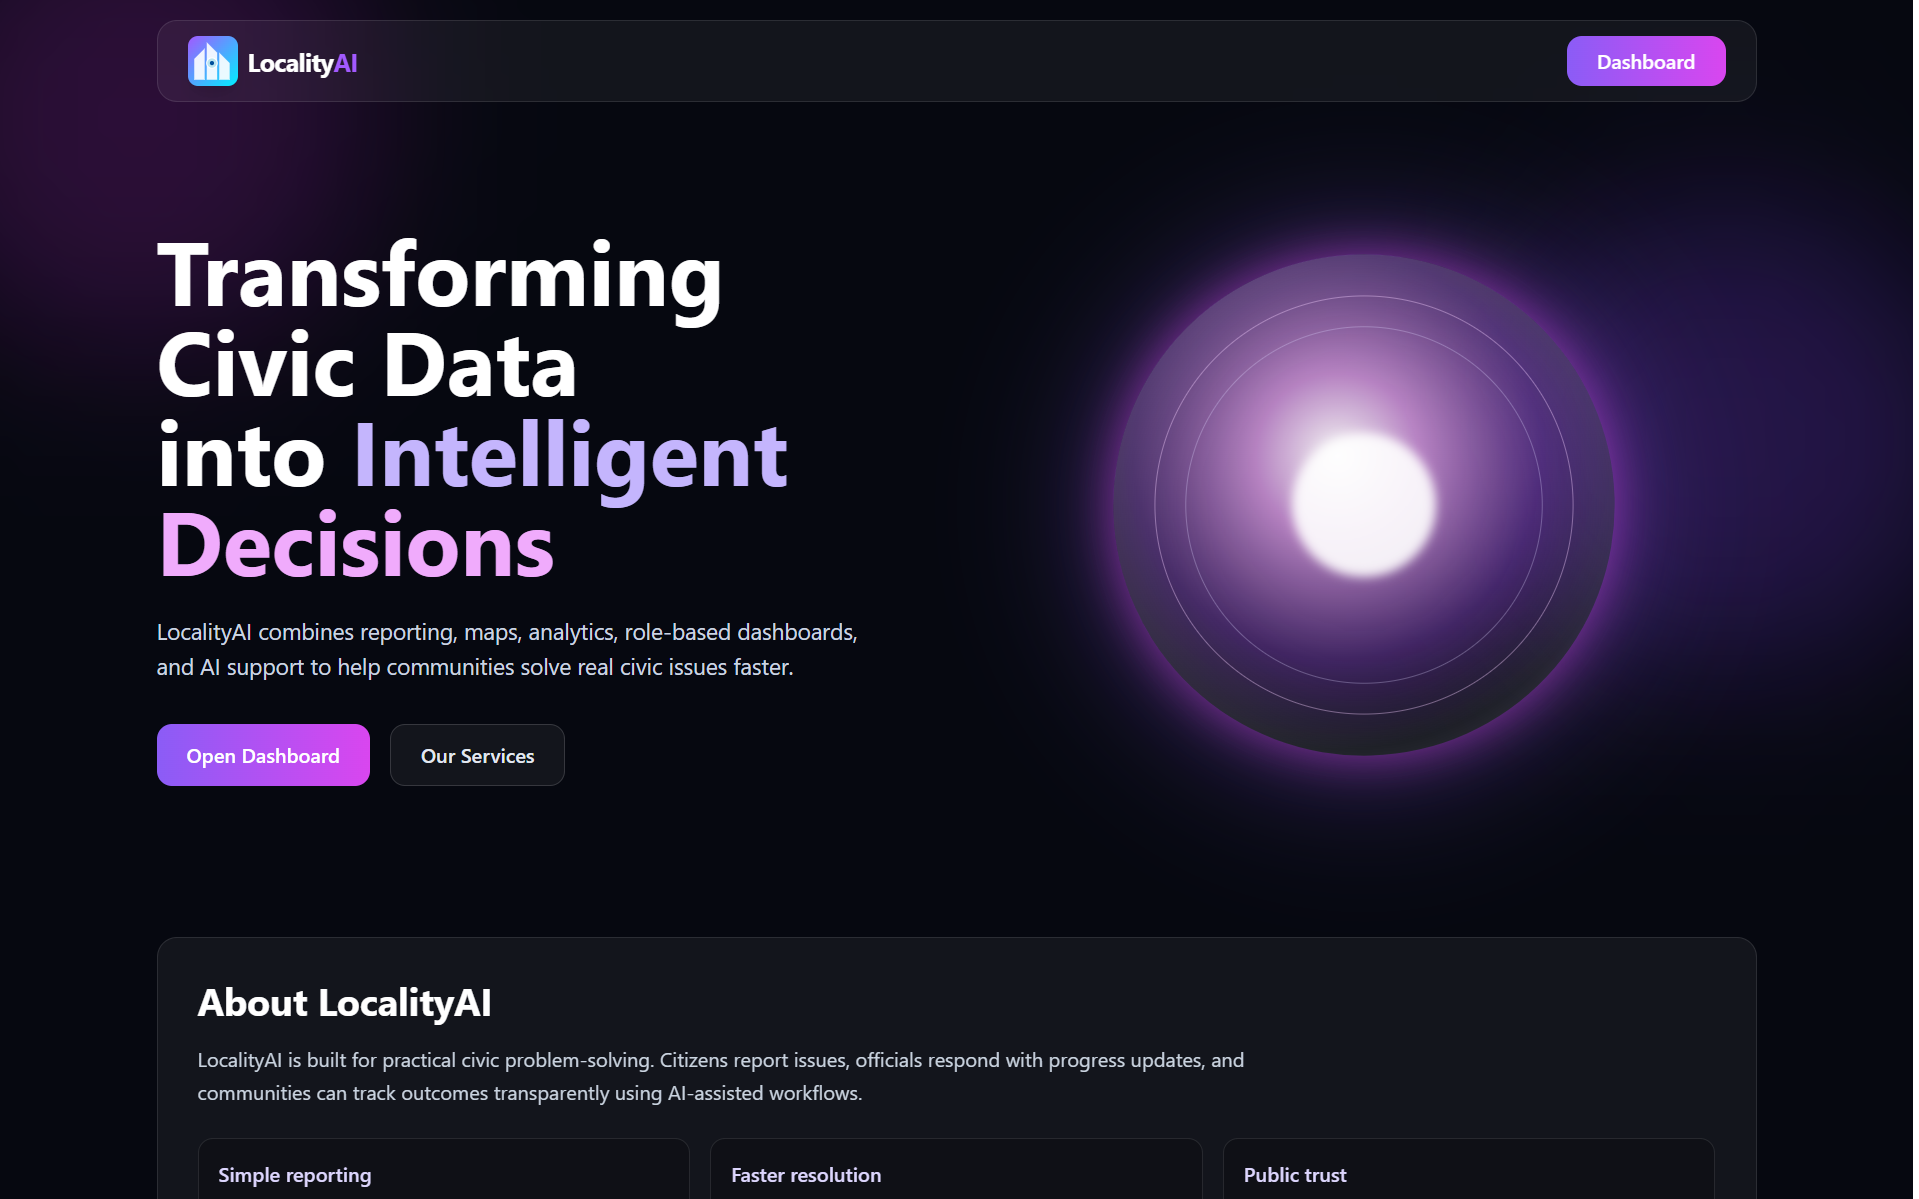
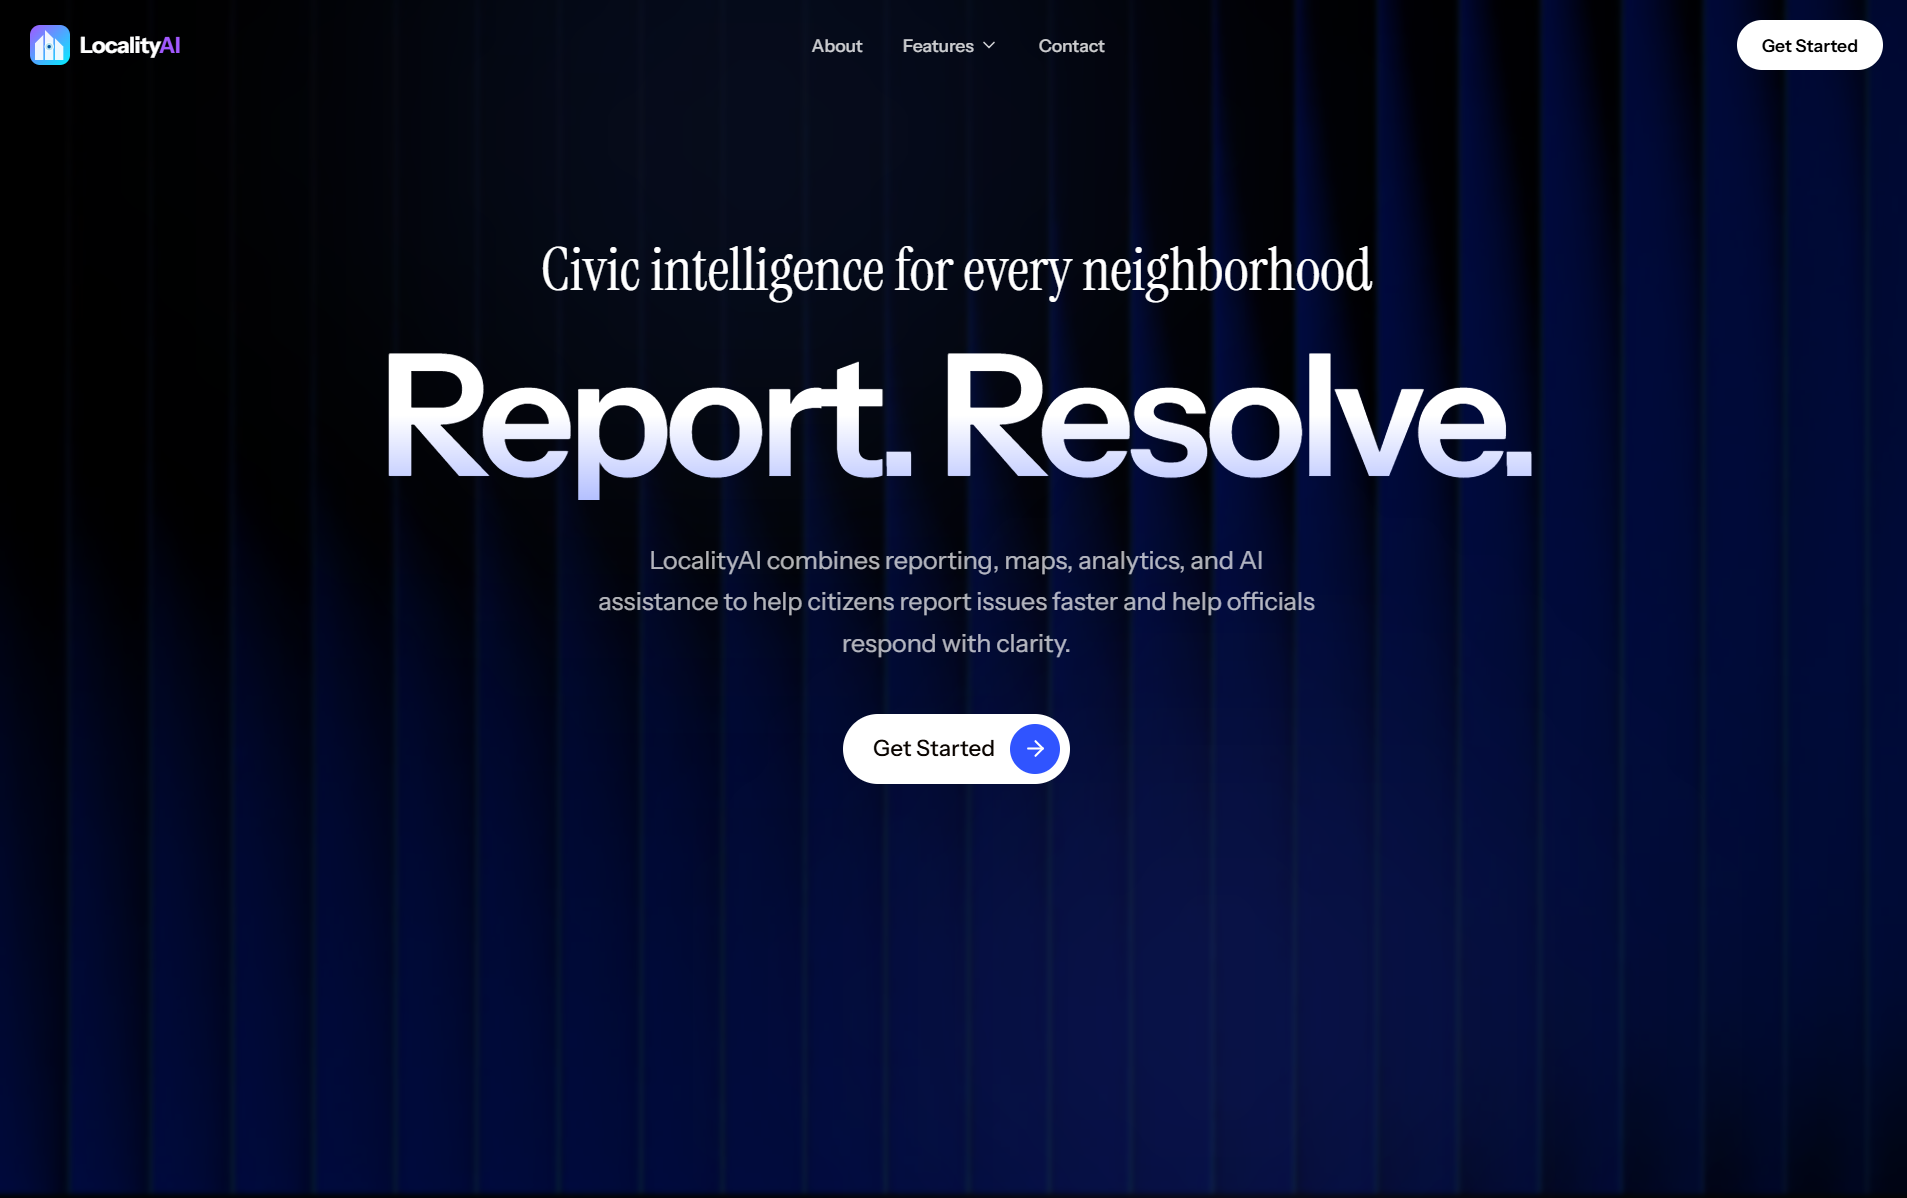
fixes

diff --git a/components/Projects.tsx b/components/Projects.tsx
@@ -1,7 +1,7 @@
 'use client';
 
 import { motion } from 'framer-motion';
-import { Github, ChevronDown, Lock } from 'lucide-react';
+import { Github, ChevronDown } from 'lucide-react';
 import { PROJECTS } from '@/constants';
 import ProjectImage from './ProjectImage';
 import { useState, useEffect } from 'react';
@@ -21,10 +21,10 @@ export default function Projects() {
   
   const featuredPriority: Record<string, number> = {
     'thirdeye': 0,
-    'vortex-holomap': 1,
-    'clipstack': 2,
-    'unipass': 3,
-    'civiclens-ai': 4,
+    'civiclens-ai': 1,
+    'vortex-holomap': 2,
+    'clipstack': 3,
+    'unipass': 4,
     'mindcare-ai': 5,
   };
 
@@ -60,36 +60,6 @@ export default function Projects() {
   };
 
   const renderProjectCard = (project: typeof PROJECTS[0]) => {
-    if (project.id === 'thirdeye') {
-      return (
-        <motion.div
-          key={project.id}
-          variants={itemVariants}
-          className="group surface-card rounded-2xl overflow-hidden transition-all duration-300 hover:border-[#d9ff2f]/35"
-          whileHover={isMobile ? {} : { y: -8, scale: 1.02 }}
-          transition={{ duration: 0.3 }}
-        >
-          <div className="relative w-full aspect-video overflow-hidden bg-gradient-to-br from-black via-[#080808] to-black">
-            <div className="absolute inset-0 bg-[radial-gradient(circle_at_30%_30%,rgba(217,255,47,0.24),transparent_30%),radial-gradient(circle_at_70%_70%,rgba(255,255,255,0.08),transparent_28%)] blur-2xl opacity-90" />
-            <div className="absolute inset-0 bg-black/55 backdrop-blur-xl" />
-            <div className="absolute inset-0 flex items-center justify-center border border-white/10">
-              <div className="flex items-center gap-2 rounded-full border border-[#d9ff2f]/55 bg-black/60 px-4 py-2 shadow-[0_0_30px_rgba(217,255,47,0.12)]">
-                <Lock className="w-4 h-4 text-[#d9ff2f]" />
-                <span className="text-sm font-semibold tracking-[0.24em] uppercase text-[#d9ff2f]">ThirdEye</span>
-              </div>
-            </div>
-          </div>
-          <div className="p-5 sm:p-7 relative">
-            <div className="absolute top-0 left-0 right-0 h-px accent-line" />
-            <h3 className="display-font text-2xl sm:text-3xl mb-2 group-hover:text-[#d9ff2f] transition-all duration-300">
-              ThirdEye
-            </h3>
-            <p className="text-white/40 text-sm uppercase tracking-[0.28em]">Locked preview</p>
-          </div>
-        </motion.div>
-      );
-    }
-
     return (
       <motion.div
         key={project.id}
@@ -115,6 +85,13 @@ export default function Projects() {
           
           {/* Work in Progress Badge */}
           {!project.githubUrl && project.id === 'clipstack' && (
+            <div className="absolute top-4 left-4 px-3 py-1.5 bg-[#f59e0b]/95 rounded-full border border-[#fbbf24]/70 z-10">
+              <span className="text-xs font-semibold text-black">Work in Progress</span>
+            </div>
+          )}
+
+          {/* ThirdEye Final Year Project Badge */}
+          {project.id === 'thirdeye' && (
             <div className="absolute top-4 left-4 px-3 py-1.5 bg-[#f59e0b]/95 rounded-full border border-[#fbbf24]/70 z-10">
               <span className="text-xs font-semibold text-black">Work in Progress</span>
             </div>

diff --git a/constants/index.ts b/constants/index.ts
@@ -47,10 +47,11 @@ export const PROJECTS: Project[] = [
   {
     id: "thirdeye",
     title: "ThirdEye",
-    description: "A confidential final-year capstone project focused on an undisclosed problem space, built around practical software systems, intelligent workflow design, and a polished user experience.",
+    description: "THIRD EYE: Intelligent Crowd Safety System. THIRD EYE is a real-time monitoring platform engineered to enhance safety and situational awareness in public environments. The system leverages integrated edge hardware and AI NPU acceleration to process multi-modal sensor inputs, enabling the tracking of crowd dynamics and the identification of anomalies for proactive management. Currently in the early stages of development, the platform features a centralized dashboard designed to visualize live system telemetry and performance analytics through a refined, user-centric interface.",
     image: "/projects/thirdeye.png",
-    technologies: ["Next.js", "TypeScript", "AI/ML", "Full-Stack"],
-    githubUrl: "",
+    technologies: ["Hardware + Software", "AI NPU Acceleration", "Edge Computing", "Multi-Modal Sensors", "Real-Time Dashboard", "Final Year Project"],
+    githubUrl: "https://github.com/NamanGaonkar/THIRDEYE-ShowCase",
+    liveUrl: "https://thirdeye-show-case.vercel.app/",
     featured: true
   },
   {